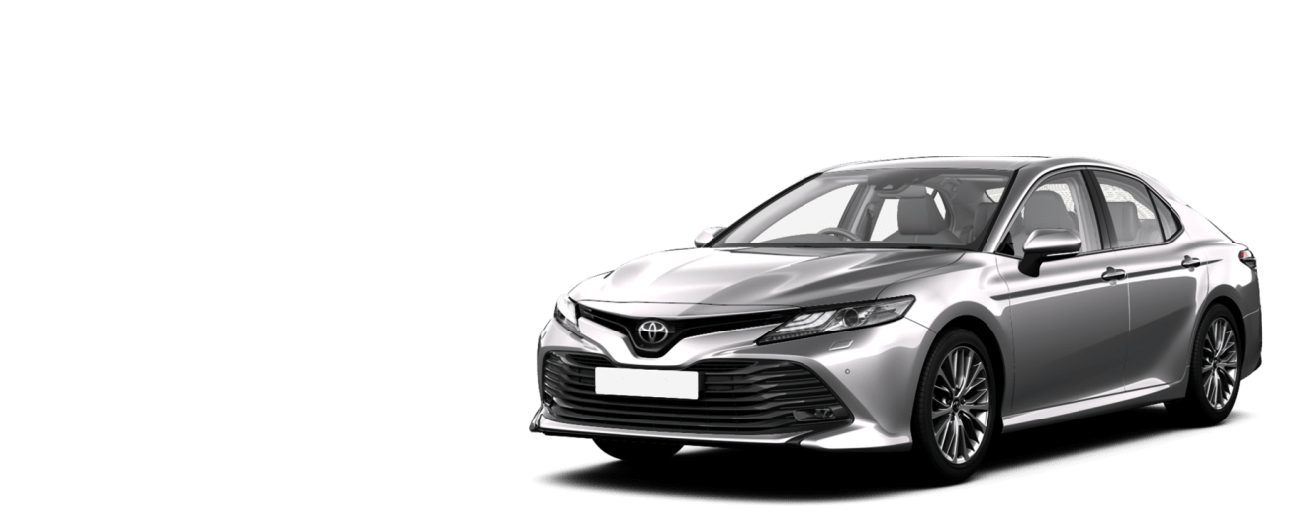
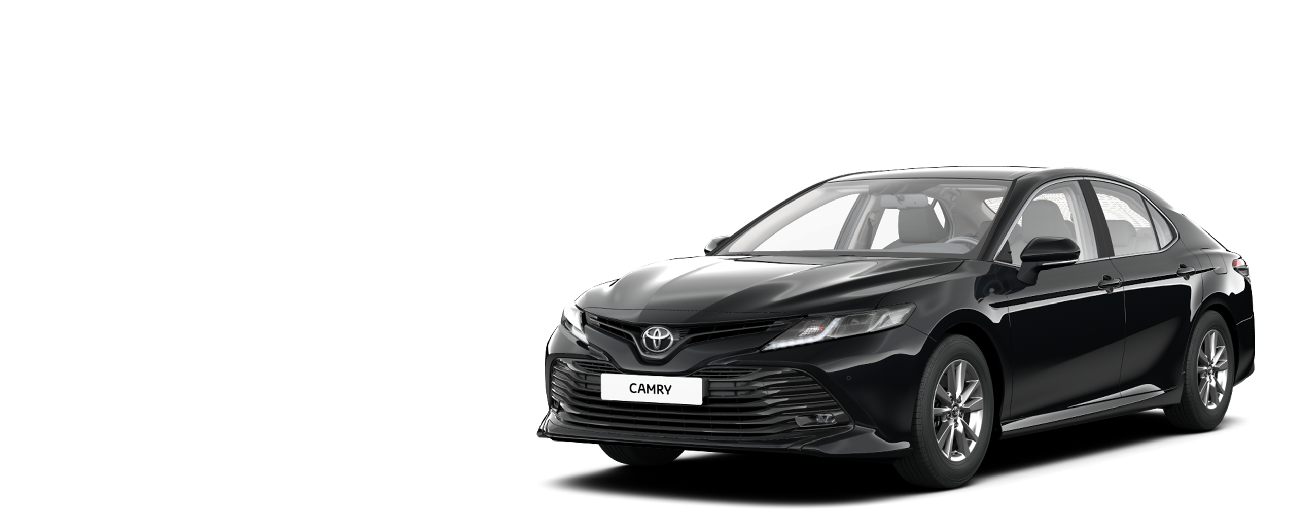
I change the images car

Changed region(s): [[0.3976, 0.2796, 0.9786, 0.9942]]

diff --git a/src/components/Section4/Section4.jsx b/src/components/Section4/Section4.jsx
@@ -25,18 +25,18 @@ class Section4 extends React.Component {
 						<div>
 							<div className='section4-slide'>
 								<div className='section4-slide-box-text'>
-									<h1>Mercedes-E</h1>
+									<h1>Mercedes S-klass</h1>
 
 									<ul>
 										<li>
 											<span className='section4-slide-box-text_tariff'>
-												750р в час или 40р за км
+												1500р в час или 80р за км
 											</span>
 										</li>
 
 										<li>
 											<span className='section4-slide-box-text_li'>
-												минимальный заказ 350 руб. до 4 км
+												минимальный заказ 700 руб. до 4 км
 											</span>
 										</li>
 										<li>
@@ -46,7 +46,7 @@ class Section4 extends React.Component {
 										</li>
 										<li>
 											<span className='section4-slide-box-text_li'>
-												ожидание свыше 10 минут — 12,50 руб. минута
+												ожидание свыше 10 минут — 25 руб. минута
 											</span>
 										</li>
 										<li>
@@ -81,18 +81,18 @@ class Section4 extends React.Component {
 						<div>
 							<div className='section4-slide'>
 								<div className='section4-slide-box-text'>
-									<h1>Mercedes-E</h1>
+									<h1>Mercedes E-klass</h1>
 
 									<ul>
 										<li>
 											<span className='section4-slide-box-text_tariff'>
-												750р в час или 40р за км
+												1500р в час или 80р за км
 											</span>
 										</li>
 
 										<li>
 											<span className='section4-slide-box-text_li'>
-												минимальный заказ 350 руб. до 4 км
+												минимальный заказ 700 руб. до 4 км
 											</span>
 										</li>
 										<li>
@@ -102,7 +102,7 @@ class Section4 extends React.Component {
 										</li>
 										<li>
 											<span className='section4-slide-box-text_li'>
-												ожидание свыше 10 минут — 12,50 руб. минута
+												ожидание свыше 10 минут — 25 руб. минута
 											</span>
 										</li>
 										<li>
@@ -119,7 +119,7 @@ class Section4 extends React.Component {
 										</p>
 										<div className='section4-slide-box-text-colors_black'></div>
 										<div className='section4-slide-box-text-colors_white'></div>
-										<div className='section4-slide-box-text-colors_gray'></div>
+
 									</div>
 								</div>
 								<img
@@ -132,57 +132,7 @@ class Section4 extends React.Component {
 						<div>
 							<div className='section4-slide'>
 								<div className='section4-slide-box-text'>
-									<h1>Tayota Camry</h1>
-
-									<ul>
-										<li>
-											<span className='section4-slide-box-text_tariff'>
-												750р в час или 40р за км
-											</span>
-										</li>
-
-										<li>
-											<span className='section4-slide-box-text_li'>
-												минимальный заказ 350 руб. до 4 км
-											</span>
-										</li>
-										<li>
-											<span className='section4-slide-box-text_li'>
-												при посадке ожидание до 10 минут бесплатно
-											</span>
-										</li>
-										<li>
-											<span className='section4-slide-box-text_li'>
-												ожидание свыше 10 минут — 12,50 руб. минута
-											</span>
-										</li>
-										<li>
-											<span className='section4-slide-box-text_li'>
-												минимальный заказ при почасовой оплате 2 часа
-											</span>
-										</li>
-									</ul>
-									<div className='section4-slide-box-text-colors'>
-										<p>
-											<span className='section4-slide-box-text-colors_header'>
-												ДОСТУПНЫЙ ЦВЕТ:
-											</span>
-										</p>
-										<div className='section4-slide-box-text-colors_black'></div>
-										<div className='section4-slide-box-text-colors_white'></div>
-									</div>
-								</div>
-								<img
-									className='section4-img'
-									src='./images/camry-big.png'
-									alt='slide'
-								/>
-							</div>
-						</div>
-						<div>
-							<div className='section4-slide'>
-								<div className='section4-slide-box-text'>
-									<h1>Tayota Camry</h1>
+									<h1>Toyota Camry v70</h1>
 
 									<ul>
 										<li>
@@ -232,7 +182,57 @@ class Section4 extends React.Component {
 						<div>
 							<div className='section4-slide'>
 								<div className='section4-slide-box-text'>
-									<h1>Mersedes Sprinter</h1>
+									<h1>Toyota Camry v55</h1>
+
+									<ul>
+										<li>
+											<span className='section4-slide-box-text_tariff'>
+												750р в час или 40р за км
+											</span>
+										</li>
+
+										<li>
+											<span className='section4-slide-box-text_li'>
+												минимальный заказ 350 руб. до 4 км
+											</span>
+										</li>
+										<li>
+											<span className='section4-slide-box-text_li'>
+												при посадке ожидание до 10 минут бесплатно
+											</span>
+										</li>
+										<li>
+											<span className='section4-slide-box-text_li'>
+												ожидание свыше 10 минут — 12,50 руб. минута
+											</span>
+										</li>
+										<li>
+											<span className='section4-slide-box-text_li'>
+												минимальный заказ при почасовой оплате 2 часа
+											</span>
+										</li>
+									</ul>
+									<div className='section4-slide-box-text-colors'>
+										<p>
+											<span className='section4-slide-box-text-colors_header'>
+												ДОСТУПНЫЙ ЦВЕТ:
+											</span>
+										</p>
+										<div className='section4-slide-box-text-colors_black'></div>
+										<div className='section4-slide-box-text-colors_white'></div>
+									</div>
+								</div>
+								<img
+									className='section4-img'
+									src='./images/camry-big.png'
+									alt='slide'
+								/>
+							</div>
+						</div>
+						<div>
+							<div className='section4-slide'>
+								<div className='section4-slide-box-text'>
+									<h1>Mercedes Sprinter</h1>
 
 									<ul>
 										<li>
